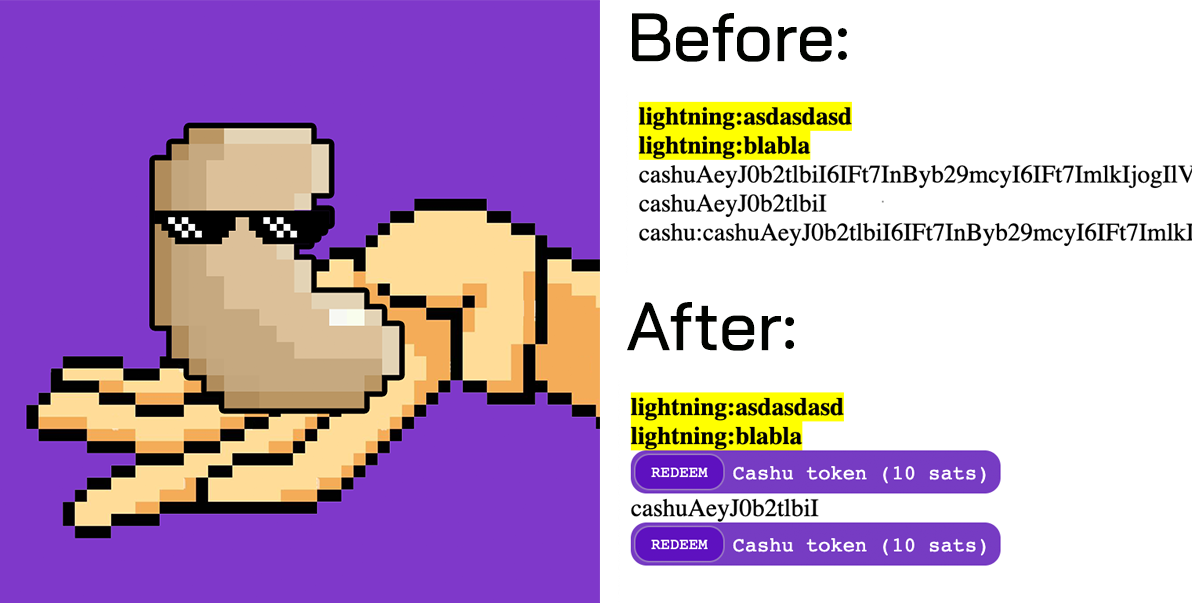
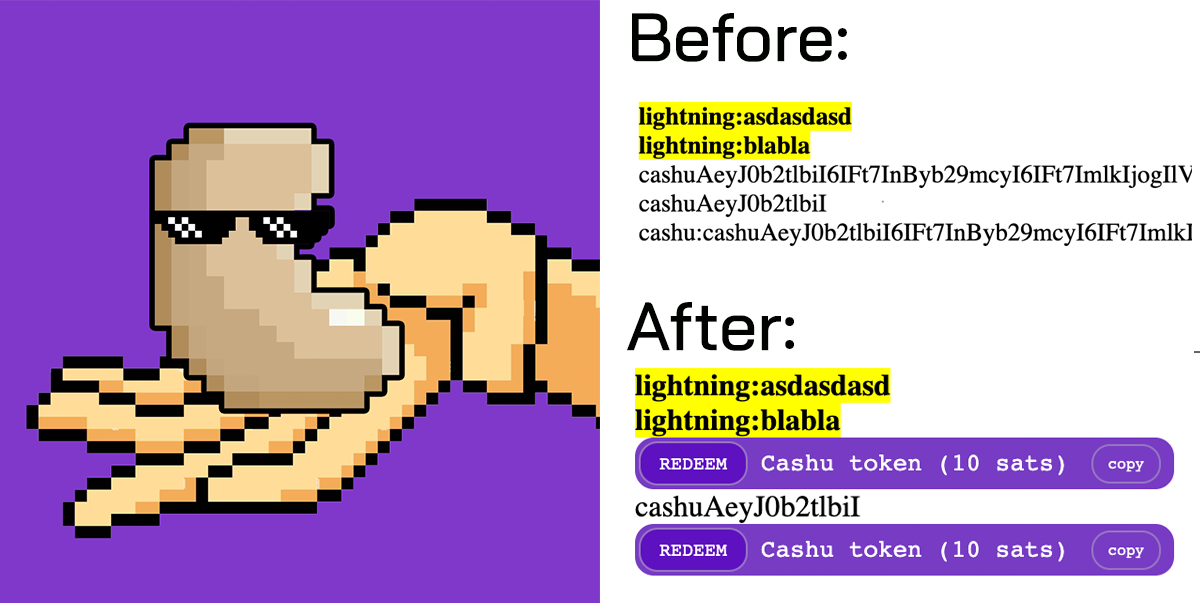
copy button

Changed region(s): [[0.5242, 0.597, 0.9867, 0.9552]]

diff --git a/content-script.js b/content-script.js
@@ -84,13 +84,47 @@ function injectButtons(match, lightningAddress) {
     span.style.marginRight = "5px";
     span.style.color = "white";
     span.style.fontFamily = "monospace";
-    span.textContent = "Cashu token"
+    span.style.padding = "0px 2px 2px 2px";   
+    span.textContent = "Cashu token";
     if (totalAmount > 0) {
       span.textContent += ` (${totalAmount} sats)`;
     }
+
+    // Create a span to hold the copy icon
+    const copyButton = document.createElement("span");
+    copyButton.style.marginLeft = "5px";
+    copyButton.style.marginRight = "5px";
+    copyButton.style.padding = "5px 8px";    
+    copyButton.style.fontSize = "8px";
+    copyButton.style.cursor = "pointer";
+    copyButton.style.border = "1px solid #9876c2";
+    copyButton.style.borderRadius = "10px";    
+    copyButton.style.color = "white";
+    copyButton.style.fontFamily = "monospace";
+    // copyButton.innerHTML = "&#x1f4cb;";
+    copyButton.textContent = "copy";
+
+    // Add an onclick event to copy the text and display "copied" text
+    copyButton.onclick = () => {
+      const tempInput = document.createElement("input");
+      tempInput.value = match;
+      document.body.appendChild(tempInput);
+      tempInput.select();
+      document.execCommand("copy");
+      document.body.removeChild(tempInput);
+      copyButton.textContent = "copied";
+      // copyButton.innerHTML = "copied &#x1f4cb;";
+
+      setTimeout(() => {
+        // copyButton.innerHTML = "&#x1f4cb;";
+        copyButton.textContent = "copy";
+      }, 10000);
+    };
+
     // Add the button and the matched text to the container
     container.appendChild(button);
     container.appendChild(span);
+    container.appendChild(copyButton);
 
     // Replace the original text node with the container
     parent.replaceChild(replacementNode, textNode);
